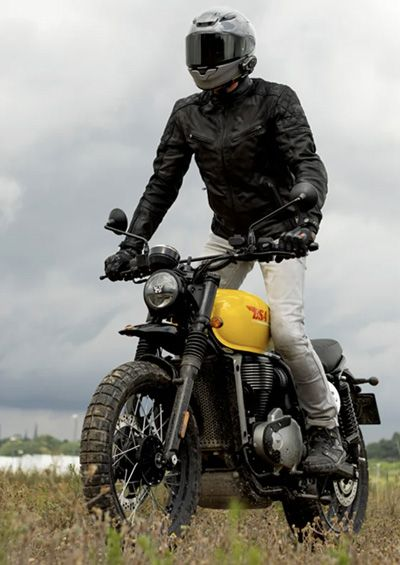
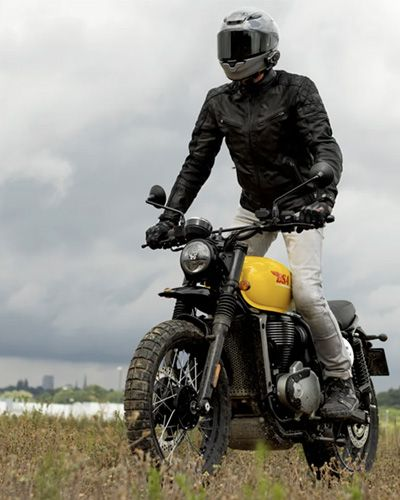
Fix BSA ads: new 400x500 images, exact placement before target events
Replaced images with Slava's v2 designs (400x500). Added beforeEvent
placement mode: ads with beforeEvent appear right before a specific
event ID instead of in date gaps. BSA Sulas ad now appears directly
before Sulas MC Stor Invigning. BSA Summer Camp ad appears directly
before BSA Summer Camp Öland. Old afterDate logic still works for
HD, Claessons, GWCS ads.

diff --git a/index.html b/index.html
@@ -599,7 +599,7 @@ const AD_PLACEMENTS = [
     image: 'ads/bsa-sulas-2026-04-18.jpg',
     bgColor: '#bab7aa',
     link: 'https://sulas.se/vara-fordon/motorcyklar/bsa-motorcycles/#/',
-    afterDate: '2026-04-17',
+    beforeEvent: 'sulas-mc-invigning-2026',
     alt: 'BSA Motorcycles - Nu hos Sulas MC, Uppsala',
     types: ['Mässa', 'Show'],
     clubs: []
@@ -609,7 +609,7 @@ const AD_PLACEMENTS = [
     image: 'ads/bsa-scrambler-2026-08-06.jpg',
     bgColor: '#66655c',
     link: 'https://www.bsaoc.org/swe/',
-    afterDate: '2026-08-07',
+    beforeEvent: 'bsa-summer-camp-oland-2026',
     alt: 'BSA Scrambler 650 - Svenska BSA Klubben',
     types: ['Träff', 'Show'],
     clubs: []
@@ -627,14 +627,20 @@ function render() {
   if (currentClub !== 'all') events = events.filter(e => CLUB_MATCHERS[currentClub] ? CLUB_MATCHERS[currentClub](e.organizer || '') : false);
   if (!showPast) events = events.filter(e => e.dateEnd ? e.dateEnd >= today : e.date >= today);
 
-  // Build a map of ads to insert after specific dates, filtered by current view
+  // Build maps of ads: by date (date gap placement) and by event ID (exact placement)
   const adsByDate = {};
+  const adsByEvent = {};
   AD_PLACEMENTS.forEach(ad => {
     const matchesType = currentFilter === 'all' || (ad.types && ad.types.includes(currentFilter));
     const matchesClub = currentClub === 'all' || !ad.clubs || ad.clubs.length === 0 || ad.clubs.includes(currentClub);
     if (matchesType && matchesClub) {
-      if (!adsByDate[ad.afterDate]) adsByDate[ad.afterDate] = [];
-      adsByDate[ad.afterDate].push(ad);
+      if (ad.beforeEvent) {
+        if (!adsByEvent[ad.beforeEvent]) adsByEvent[ad.beforeEvent] = [];
+        adsByEvent[ad.beforeEvent].push(ad);
+      } else if (ad.afterDate) {
+        if (!adsByDate[ad.afterDate]) adsByDate[ad.afterDate] = [];
+        adsByDate[ad.afterDate].push(ad);
+      }
     }
   });
 
@@ -687,7 +693,7 @@ function render() {
       </div>
     `;
 
-    // Check if any ads should appear before this event
+    // Check if any ads should appear before this event (date gap placement)
     if (event.date !== lastEventDate && lastEventDate) {
       Object.keys(adsByDate).forEach(adDate => {
         if (adDate >= lastEventDate && adDate < event.date) {
@@ -704,6 +710,19 @@ function render() {
       });
     }
     lastEventDate = event.date;
+
+    // Check if any ads should appear right before this specific event
+    if (adsByEvent[event.id]) {
+      adsByEvent[event.id].forEach(ad => {
+        const adCard = document.createElement('div');
+        adCard.className = 'card ad-card';
+        adCard.style.backgroundColor = ad.bgColor;
+        adCard.style.cursor = 'pointer';
+        adCard.onclick = () => window.open(ad.link, '_blank');
+        adCard.innerHTML = `<img src="${ad.image}" alt="${ad.alt}" loading="lazy">`;
+        grid.appendChild(adCard);
+      });
+    }
 
     grid.appendChild(card);
   });
